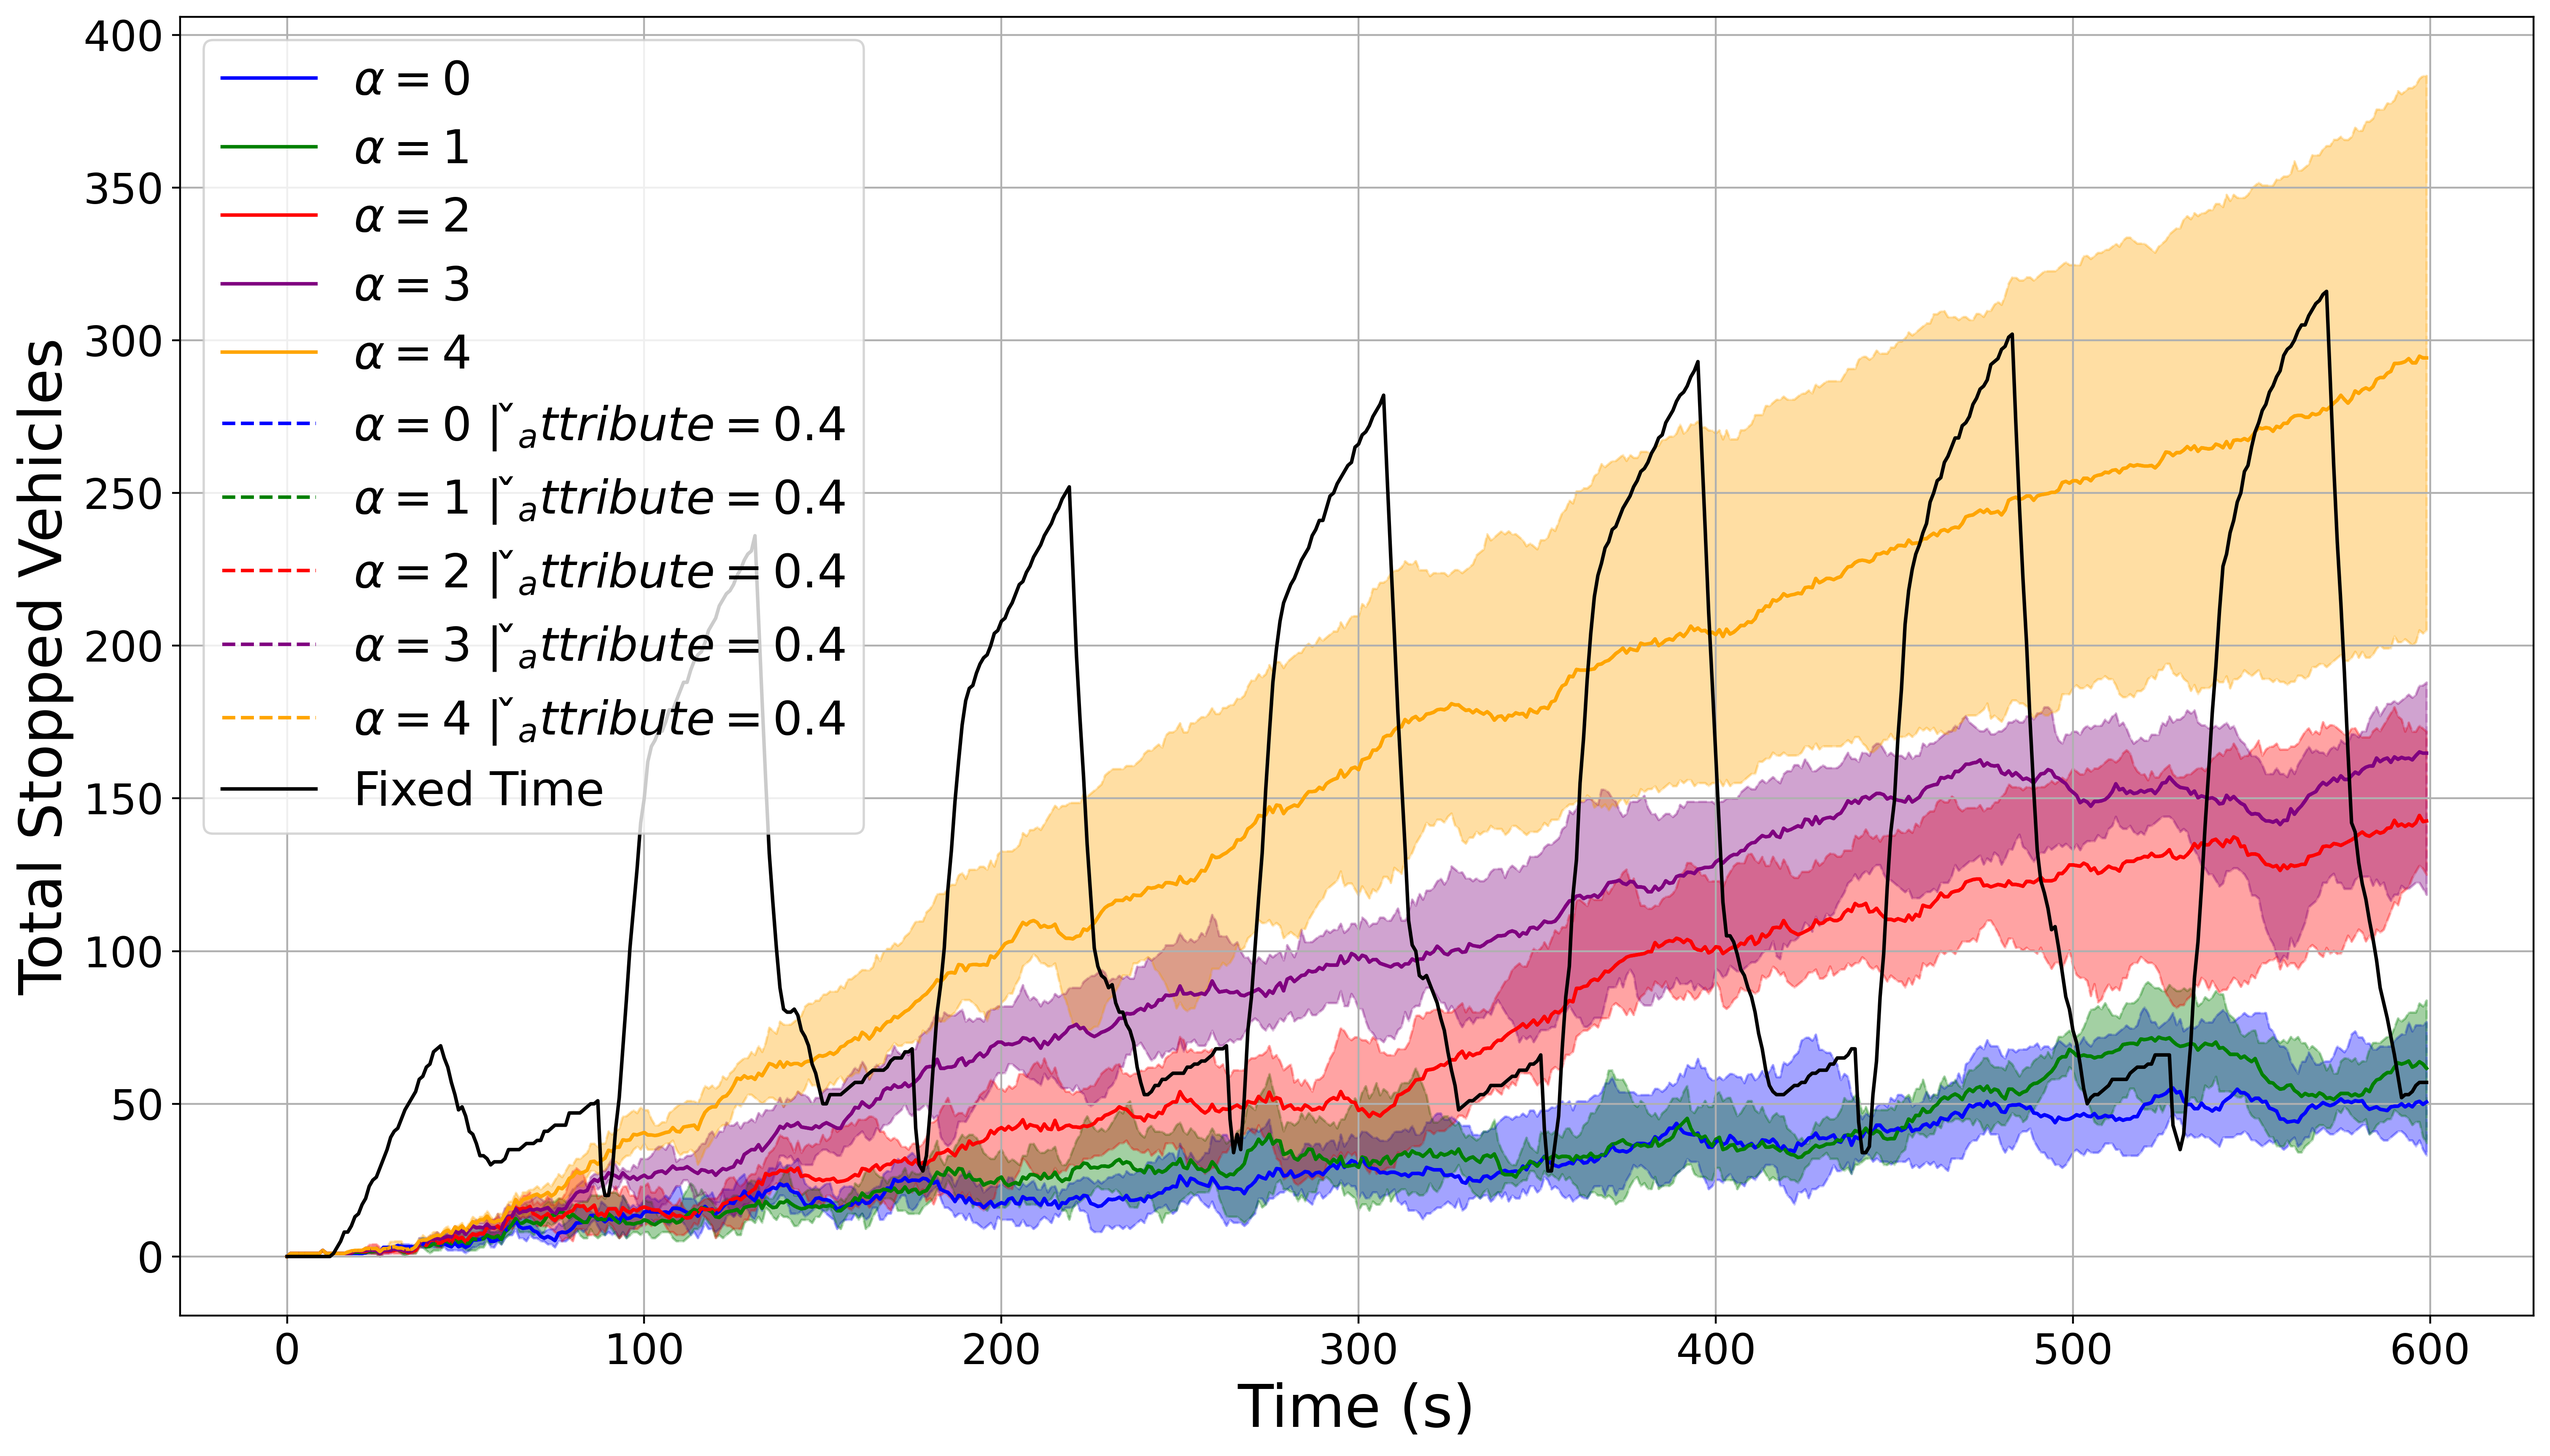
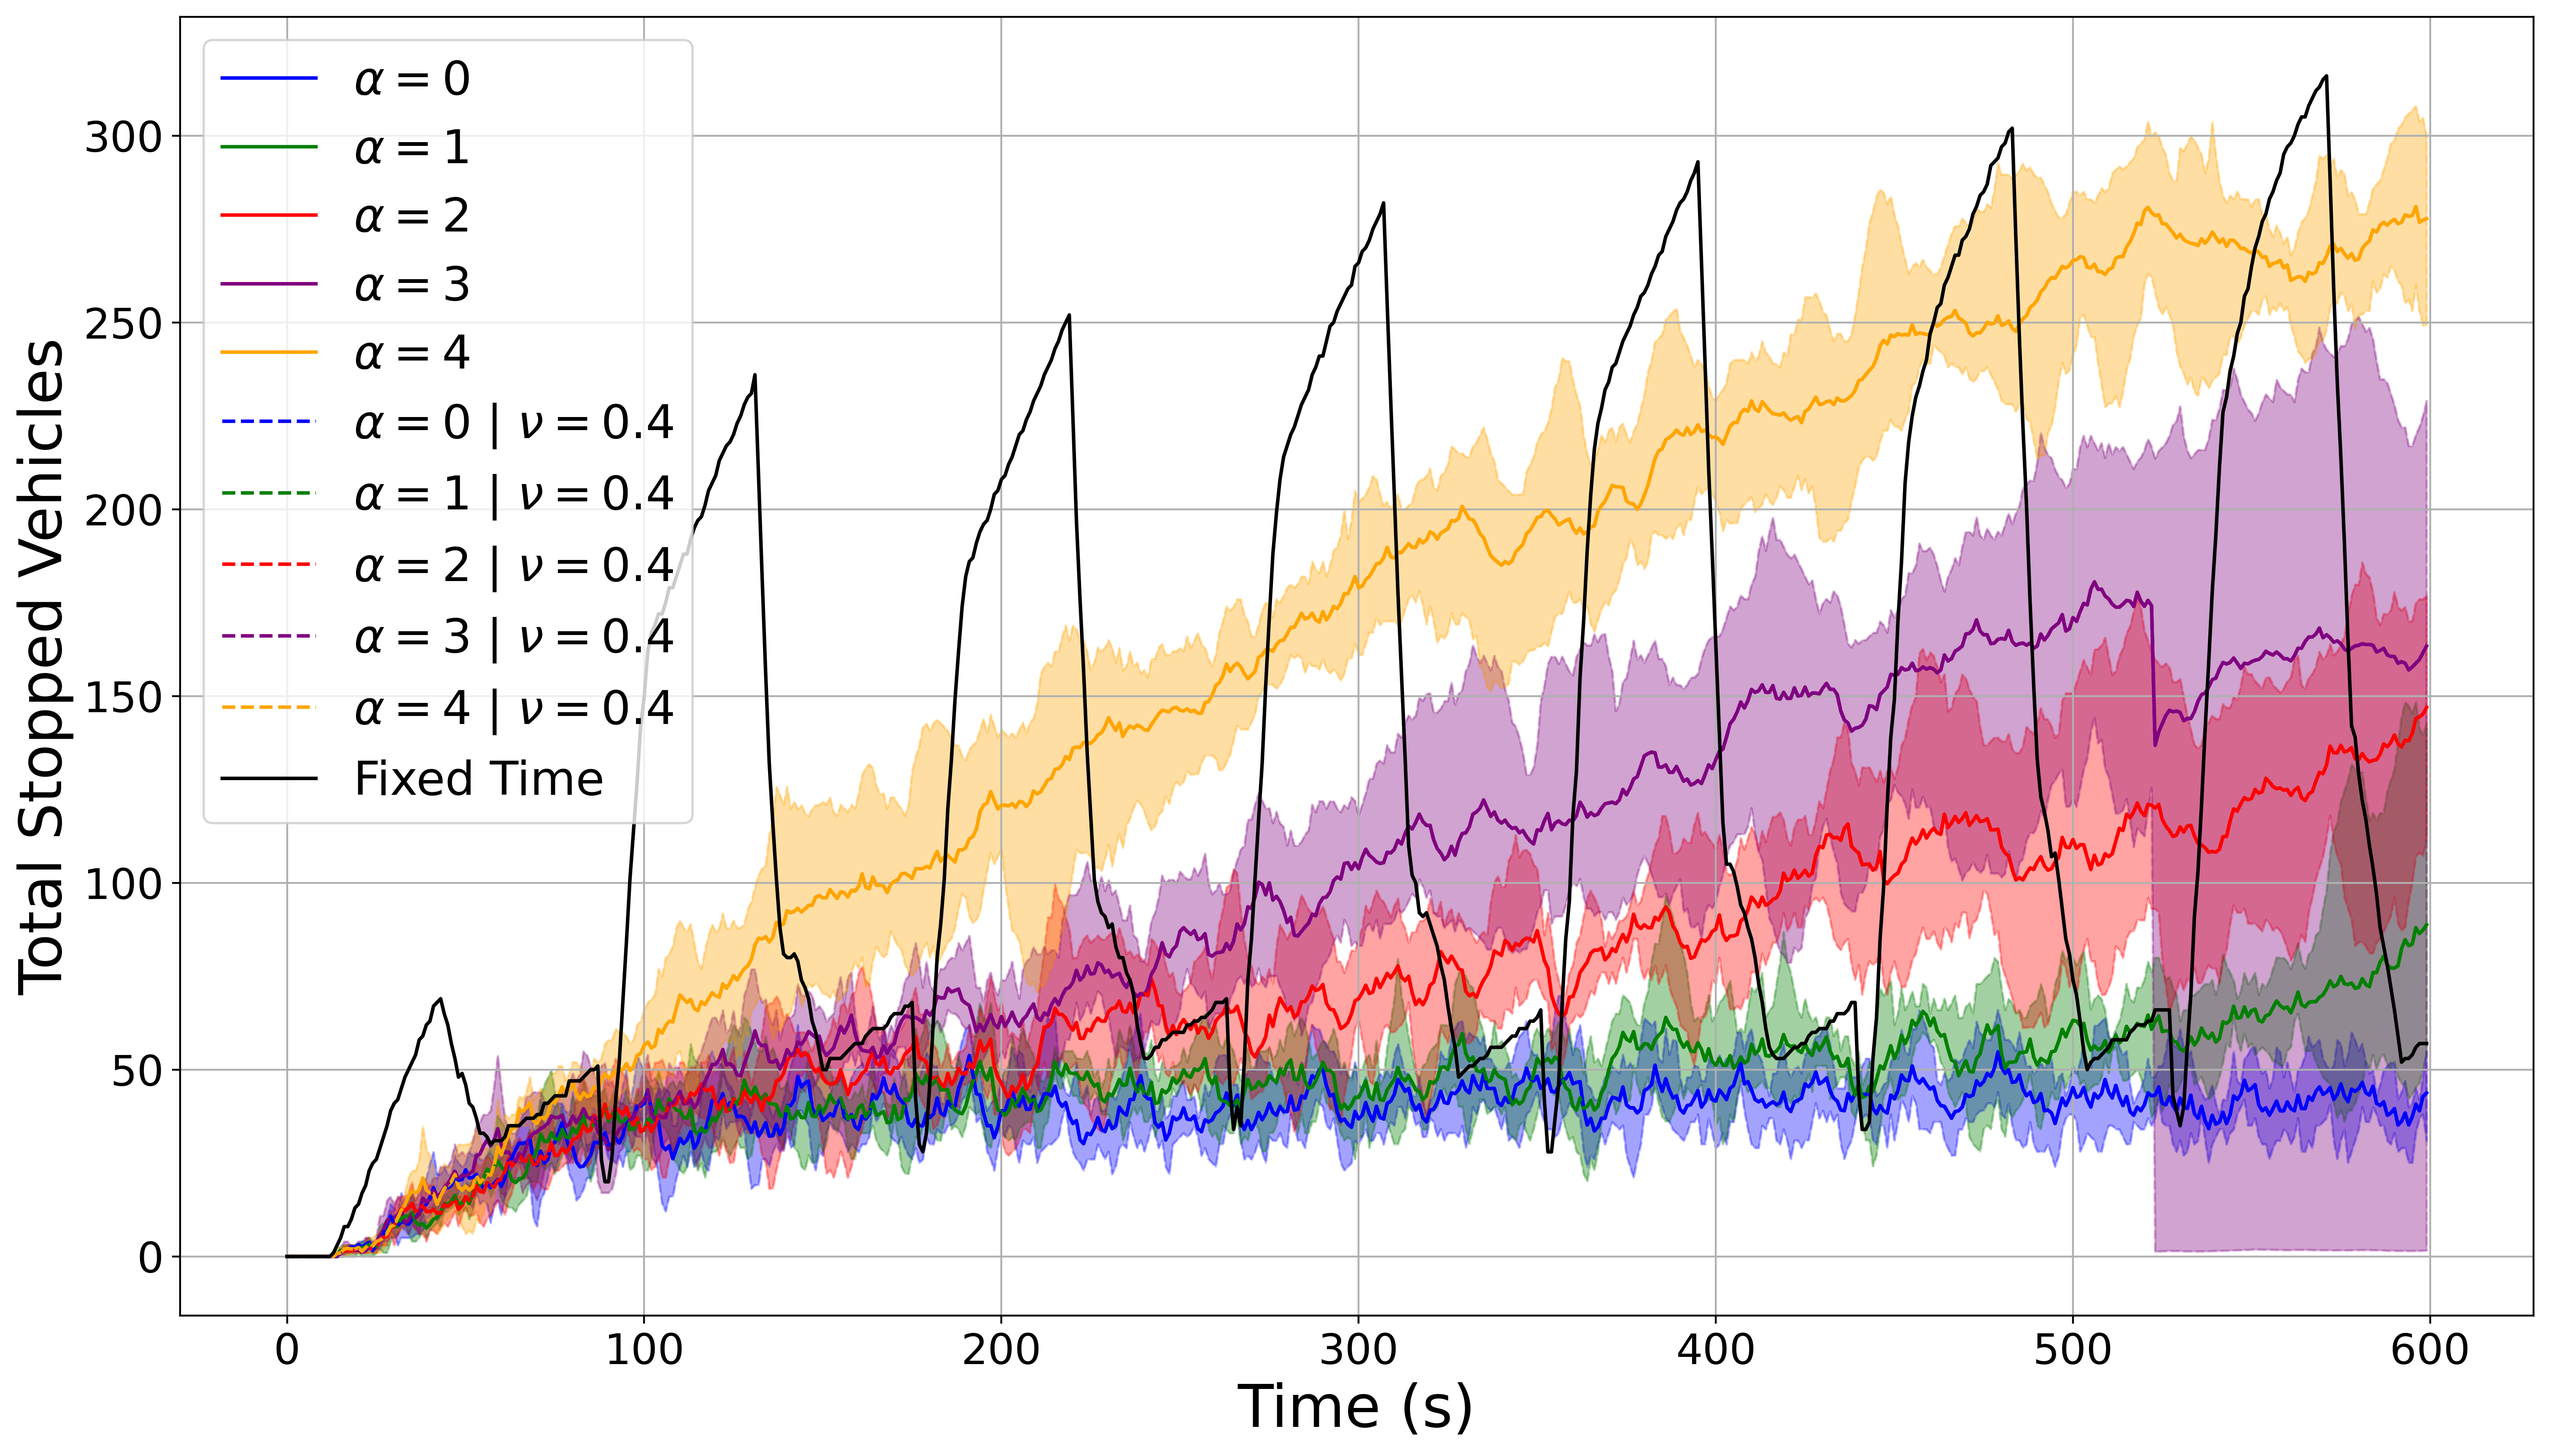
Update plot script and data paths; modify label formatting and change CSV file reference

diff --git a/plot.py b/plot.py
@@ -15,7 +15,7 @@ check_value = sys.argv[1]
 attack_state = sys.argv[2]
 check_attribute = sys.argv[3] if len(sys.argv) > 3 else "nu"
 CWD = os.getcwd()
-DATA_PATH = os.path.join(CWD, f'/Users/cavelab/Documents/Github/FRITS-Backup/output/i4-cyber_attack/rl/without_frl/{attack_state}/off-peak/{check_attribute}_{check_value}')
+DATA_PATH = os.path.join(CWD, f'/Users/cavelab/Documents/Github/FRITS-Backup/output/i4-cyber_attack/rl/without_frl/{attack_state}/off-peak/')
 DATA_PATH_NEW = os.path.join(CWD, f'/Users/cavelab/Documents/Github/FRITS-Backup/output/i4-cyber_attack/rl/without_frl/{attack_state}/off-peak/{check_attribute}_{check_value}')
 attribute_oi = "system_total_stopped"
 def pad_or_truncate(arr, target_length):
@@ -72,7 +72,7 @@ if __name__ == '__main__':
         wt_new[a] = np.stack(wt_new[a], axis=0)
     
     # --------------------------------------------------------------------
-    df = pd.read_csv('d_1_fixed.csv')
+    df = pd.read_csv('4x4_fixed.csv')
     
     fixed = df[attribute_oi].values
     fixed = pad_or_truncate(fixed, target_length)
@@ -93,7 +93,7 @@ if __name__ == '__main__':
         lb_new = np.percentile(wt_new[a], 0.25, axis=0)
         ub_new = np.percentile(wt_new[a], 99.75, axis=0)
         mean_new = wt_new[a].mean(axis=0)
-        plt.plot(x_ax, mean_new, '--', color=colors[a], label=r'$\alpha=$'+'{} | $\check_attribute = {}$'.format(a, check_value))
+        plt.plot(x_ax, mean_new, '--', color=colors[a], label=r'$\alpha=$'+'{} | $\{} = {}$'.format(a, check_attribute,check_value))
         plt.fill_between(x_ax, lb_new, ub_new, color=colors[a], alpha=0.2, linestyle='--')
 
     # Plot the fixed data
